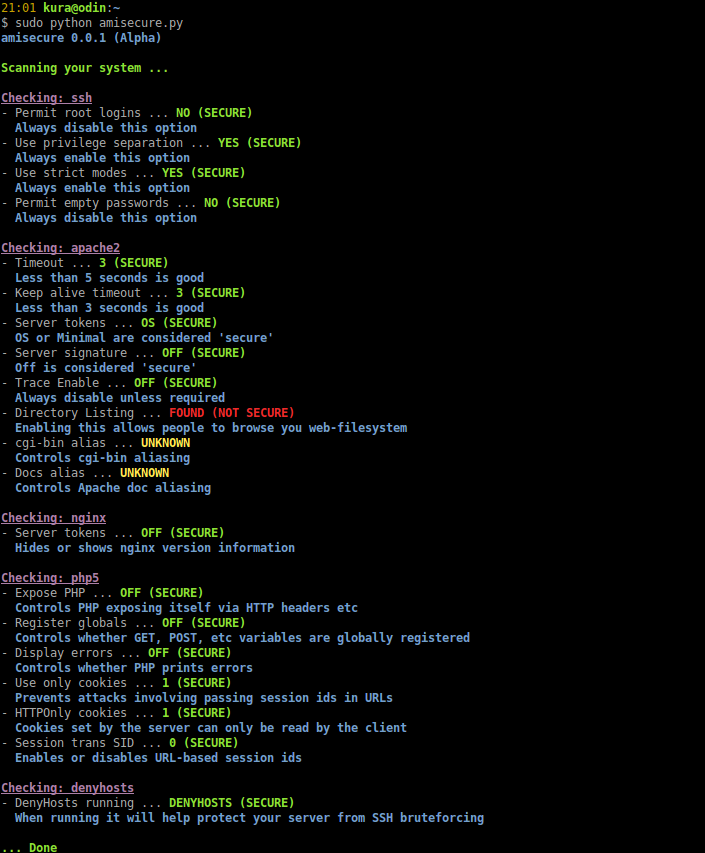
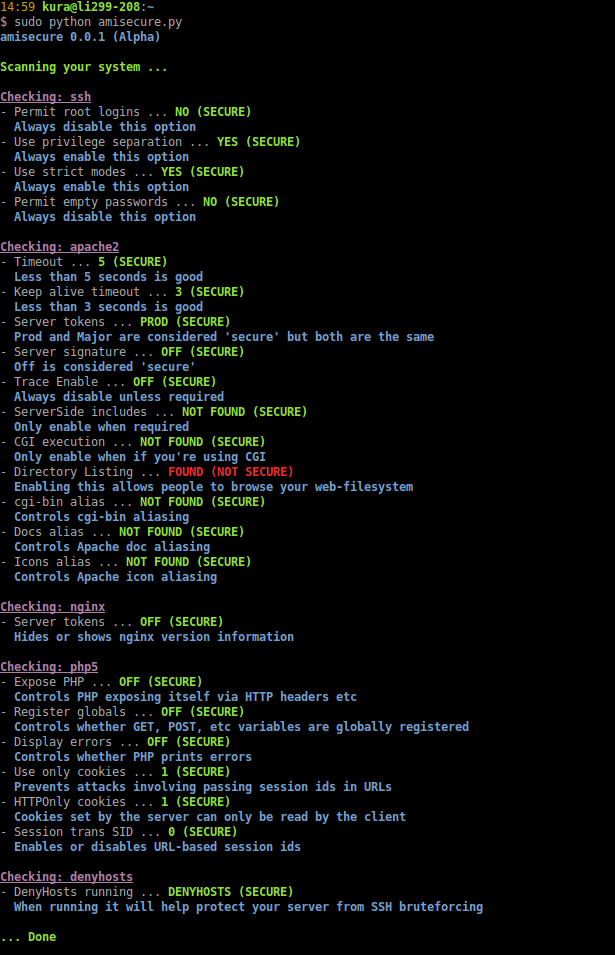
Added a new test, clean up code. New ss

Changed region(s): [[0.0, 0.0, 0.8033, 1.0]]

diff --git a/amisecure.py b/amisecure.py
@@ -30,22 +30,22 @@ config_checks = (
         ),
         "tests": (
             (
-                re.compile(r"[^.*]PermitRootLogin\s(?P<value>yes|no)", re.IGNORECASE),
+                re.compile(r"[^a-z]PermitRootLogin\s(?P<value>yes|no)", re.IGNORECASE),
                 ("equal_to", "no"), True,
                 "Permit root logins", "Always disable this option"
             ),
             (
-                re.compile(r"[^.*]UsePrivilegeSeparation\s(?P<value>yes|no)", re.IGNORECASE), 
+                re.compile(r"[^a-z]UsePrivilegeSeparation\s(?P<value>yes|no)", re.IGNORECASE), 
                 ("equal_to", "yes"), True,
                 "Use privilege separation", "Always enable this option"
             ),
             (
-                re.compile(r"[^.*]StrictModes\s(?P<value>yes|no)", re.IGNORECASE), 
+                re.compile(r"[^a-z]StrictModes\s(?P<value>yes|no)", re.IGNORECASE), 
                 ("equal_to", "yes"), True,
                 "Use strict modes", "Always enable this option"
             ),
             (
-                re.compile(r"[^.*]PermitEmptyPasswords\s(?P<value>yes|no)", re.IGNORECASE), 
+                re.compile(r"[^a-z]PermitEmptyPasswords\s(?P<value>yes|no)", re.IGNORECASE), 
                 ("equal_to", "no"), True,
                 "Permit empty passwords", "Always disable this option"
             ),
@@ -56,62 +56,68 @@ config_checks = (
         "content_function": "get_file_content",
         "check_function": "check_value",
         "files": (
+            "/etc/apache2/apache2.conf",
+            "/etc/apache2/mods-enabled/*",
             "/etc/apache2/httpd.conf",
             "/etc/apache2/ports.conf",
-            "/etc/apache2/apache2.conf",
             "/etc/apache2/conf.d/*",
             "/etc/apache2/sites-enabled/*",
         ),
         "tests": (
             (
-                re.compile(r"[^.*]Timeout\s(?P<value>[0-9]*)", re.IGNORECASE), 
+                re.compile(r"[^a-z]Timeout\s(?P<value>[0-9]*)", re.IGNORECASE), 
                 ("less_than", 6), True,
                 "Timeout", "Less than 5 seconds is good"
             ),
             (
-                re.compile(r"[^.*]KeepAliveTimeout\s(?P<value>[0-9]*)", re.IGNORECASE), 
+                re.compile(r"[^a-z]KeepAliveTimeout\s(?P<value>[0-9]*)", re.IGNORECASE), 
                 ("less_than", 4), True,
                 "Keep alive timeout", "Less than 3 seconds is good"
             ),
             (
-                re.compile(r"[^.*]ServerTokens\s(?P<value>Prod|ProductOnly|Major|Minor|Min|Minimal|OS|Full)", re.IGNORECASE), 
-                ("equal_to", ("prod", "productonly", "major")), True,
-                "Server tokens", "Prod, ProductOnly and Major are considered 'secure' but both are the same"
+                re.compile(r"[^a-z]ServerTokens\s(?P<value>Prod|Major|Minor|Minimal|OS|Full)", re.IGNORECASE), 
+                ("equal_to", ("prod", "major")), True,
+                "Server tokens", "Prod and Major are considered 'secure' but both are the same"
             ),
             (
-                re.compile(r"[^.*]ServerSignature\s(?P<value>on|off)", re.IGNORECASE),
+                re.compile(r"[^a-z]ServerSignature\s(?P<value>on|off)", re.IGNORECASE),
                 ("equal_to", "off"), True,
                 "Server signature", "Off is considered 'secure'"
             ),
             (
-                re.compile(r"[^.*]traceenable\s(?P<value>on|off)", re.IGNORECASE),
+                re.compile(r"[^a-z]traceenable\s(?P<value>on|off)", re.IGNORECASE),
                 ("equal_to", "off"), True,
                 "Trace Enable", "Always disable unless required"
             ),
             (
-                re.compile(r"[^.*]Options\s.*?(?P<value>Includes).*", re.IGNORECASE),
+                re.compile(r"[^a-z]Options\s.*?(?P<value>\+?Includes).*", re.IGNORECASE),
                 ("equal_to", ""), "Found",
                 "ServerSide includes", "Only enable when required"
             ),
                         (
-                re.compile(r"[^.*]Options\s.*?(?P<value>ExecCGI).*", re.IGNORECASE),
+                re.compile(r"[^a-z]Options\s.*?(?P<value>\+?ExecCGI).*", re.IGNORECASE),
                 ("equal_to", ""), "Found",
                 "CGI execution", "Only enable when if you're using CGI"
             ),
             (
-                re.compile(r"[^.*]Options\s.*?(?P<value>Indexes).*", re.IGNORECASE),
+                re.compile(r"[^a-z]Options\s.*?(?P<value>\+?Indexes).*", re.IGNORECASE),
                 ("equal_to", ""), "Found",
-                "Directory Listing", "Enabling this allows people to browse you web-filesystem"
+                "Directory Listing", "Enabling this allows people to browse your web-filesystem"
             ),
             (
-                re.compile(r"[^.*]ScriptAlias\s(?P<value>/cgi-bin/).*", re.IGNORECASE),
+                re.compile(r"[^a-z]ScriptAlias\s(?P<value>/cgi-bin/).*", re.IGNORECASE),
                 ("equal_to", ""), "Found",
                 "cgi-bin alias", "Controls cgi-bin aliasing"
             ),
             (
-                re.compile(r"[^.*]Alias\s(?P<value>/doc/).*", re.IGNORECASE),
+                re.compile(r"[^a-z]Alias\s(?P<value>/doc/).*", re.IGNORECASE),
                 ("equal_to", ""), "Found",
                 "Docs alias", "Controls Apache doc aliasing"
+            ),
+            (
+                re.compile(r"[^a-z]Alias\s(?P<value>/icons/).*", re.IGNORECASE),
+                ("equal_to", ""), "Found",
+                "Icons alias", "Controls Apache icon aliasing"
             ),
         ),
     },
@@ -126,7 +132,7 @@ config_checks = (
         ),
         "tests": (
             (
-                re.compile(r"[^.*]server_tokens\s(?P<value>on|off)", re.IGNORECASE), 
+                re.compile(r"[^a-z]server_tokens\s(?P<value>on|off)", re.IGNORECASE), 
                 ("equal_to", "off"), True,
                 "Server tokens", "Hides or shows nginx version information"
             ),
@@ -142,32 +148,32 @@ config_checks = (
         ),
         "tests": (
             (
-                re.compile(r"[^.*]expose_php\s=\s(?P<value>on|off)", re.IGNORECASE), 
+                re.compile(r"[^a-z]expose_php\s=\s(?P<value>on|off)", re.IGNORECASE), 
                 ("equal_to", "off"), True,
                 "Expose PHP", "Controls PHP exposing itself via HTTP headers etc"
             ),
             (
-                re.compile(r"[^.*]register_globals\s=\s(?P<value>on|off)", re.IGNORECASE), 
+                re.compile(r"[^a-z]register_globals\s=\s(?P<value>on|off)", re.IGNORECASE), 
                 ("equal_to", "off"), True,
                 "Register globals", "Controls whether GET, POST, etc variables are globally registered"
             ),
             (
-                re.compile(r"[^.*]display_errors\s=\s(?P<value>on|off)", re.IGNORECASE), 
+                re.compile(r"[^a-z]display_errors\s=\s(?P<value>on|off)", re.IGNORECASE), 
                 ("equal_to", "off"), True,
                 "Display errors", "Controls whether PHP prints errors"
             ),
             (
-                re.compile(r"[^.*]session.use_only_cookies\s=\s(?P<value>1|0)", re.IGNORECASE),
+                re.compile(r"[^a-z]session.use_only_cookies\s=\s(?P<value>1|0)", re.IGNORECASE),
                 ("equal_to", "1"), True,
                 "Use only cookies", "Prevents attacks involving passing session ids in URLs"
             ),
             (
-                re.compile(r"[^.*]session.cookie_httponly\s=\s(?P<value>1|0)", re.IGNORECASE),
+                re.compile(r"[^a-z]session.cookie_httponly\s=\s(?P<value>1|0)", re.IGNORECASE),
                 ("equal_to", "1"), True,
                 "HTTPOnly cookies", "Cookies set by the server can only be read by the client"
             ),
             (
-                re.compile(r"[^.*]session.use_trans_sid\s=\s(?P<value>1|0)", re.IGNORECASE),
+                re.compile(r"[^a-z]session.use_trans_sid\s=\s(?P<value>1|0)", re.IGNORECASE),
                 ("equal_to", "0"), True,
                 "Session trans SID", "Enables or disables URL-based session ids"
             ),
@@ -215,7 +221,7 @@ def equal_to(this, that):
     """Convert values to strings and check if they match"""
     if isinstance(that, (tuple)):
         for v in that:
-            if str(this).lower() == str(that).lower():
+            if str(this).lower() == str(v).lower():
                 return True
     if str(this).lower() == str(that).lower():
         return True
@@ -256,6 +262,9 @@ def check_value(regex, secure_value, display_value, message, additional, content
         else:
             colour = "red"
             value = value + " (not secure)"
+    elif secure_value == "":
+        colour = "green"
+        value = "Not found (secure)"
     else:
         colour = "yellow"
         value = "unknown"
@@ -282,8 +291,8 @@ def clean(content):
     for line in content.split("\n"):
         line = line.lstrip()
         line = re.sub(r"\s+", " ", line)
-        if not re.match(r"[^.*]#", line) and not re.match(r"#", line) \
-        and not re.match(r"[^.*];", line) and not re.match(r";", line):
+        if not re.match(r"[^a-z]#", line) and not re.match(r"#", line) \
+        and not re.match(r"[^a-z];", line) and not re.match(r";", line):
             stripped_content += line + "\n"
     return stripped_content
 
